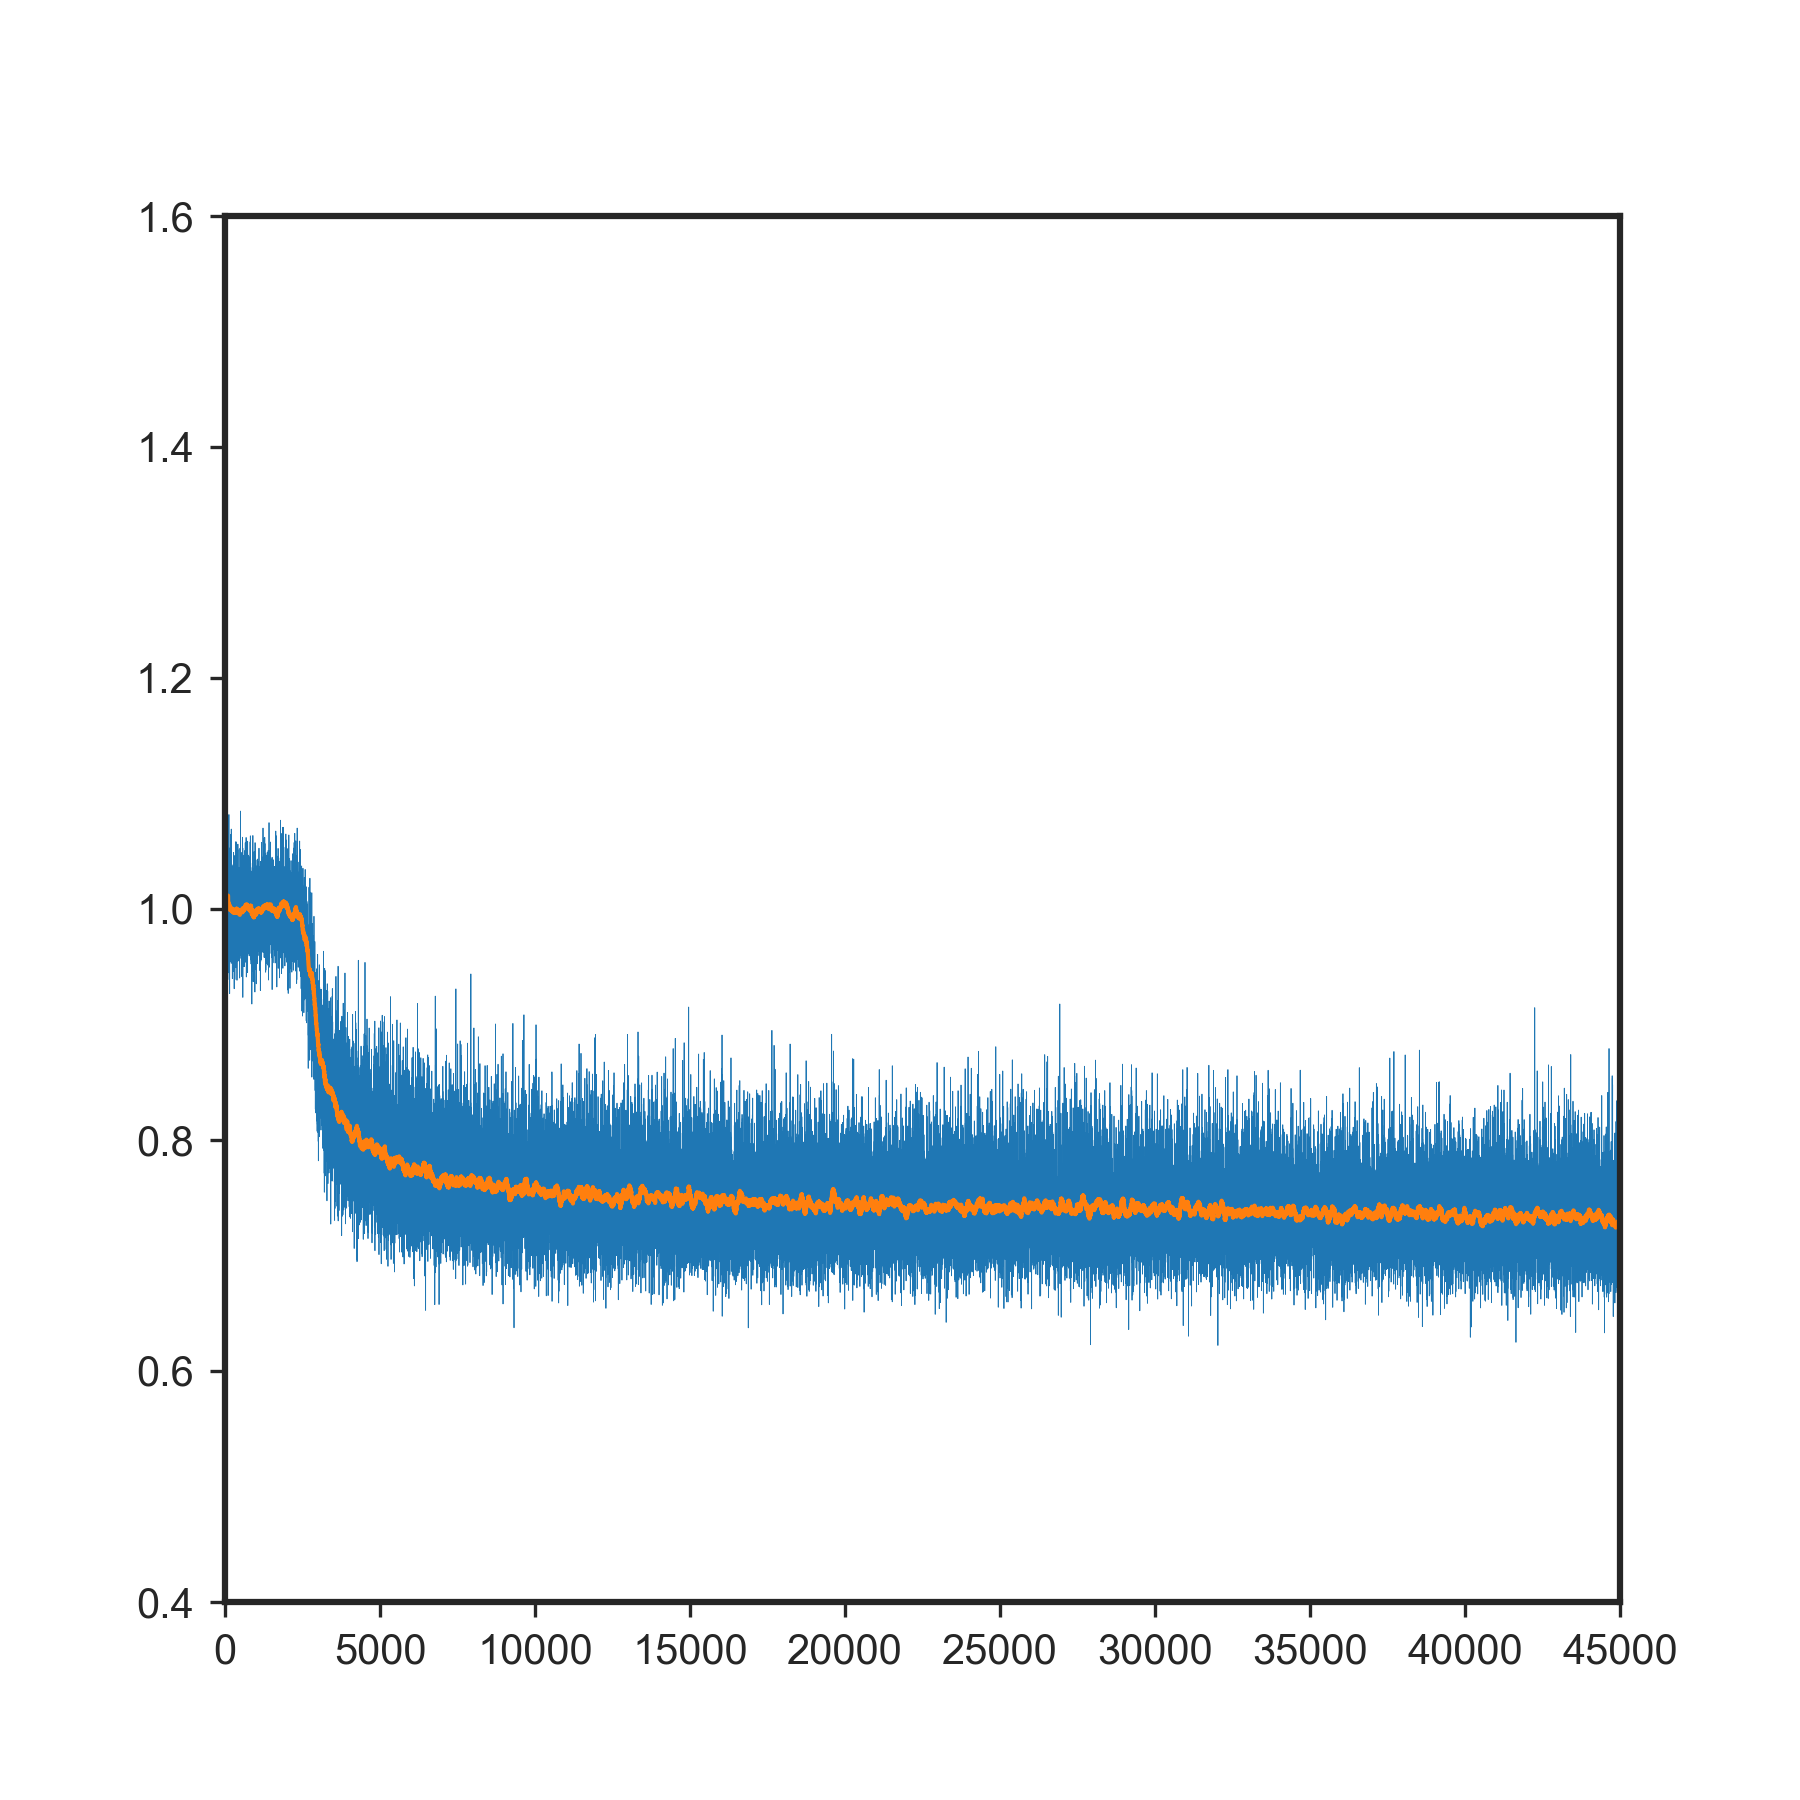
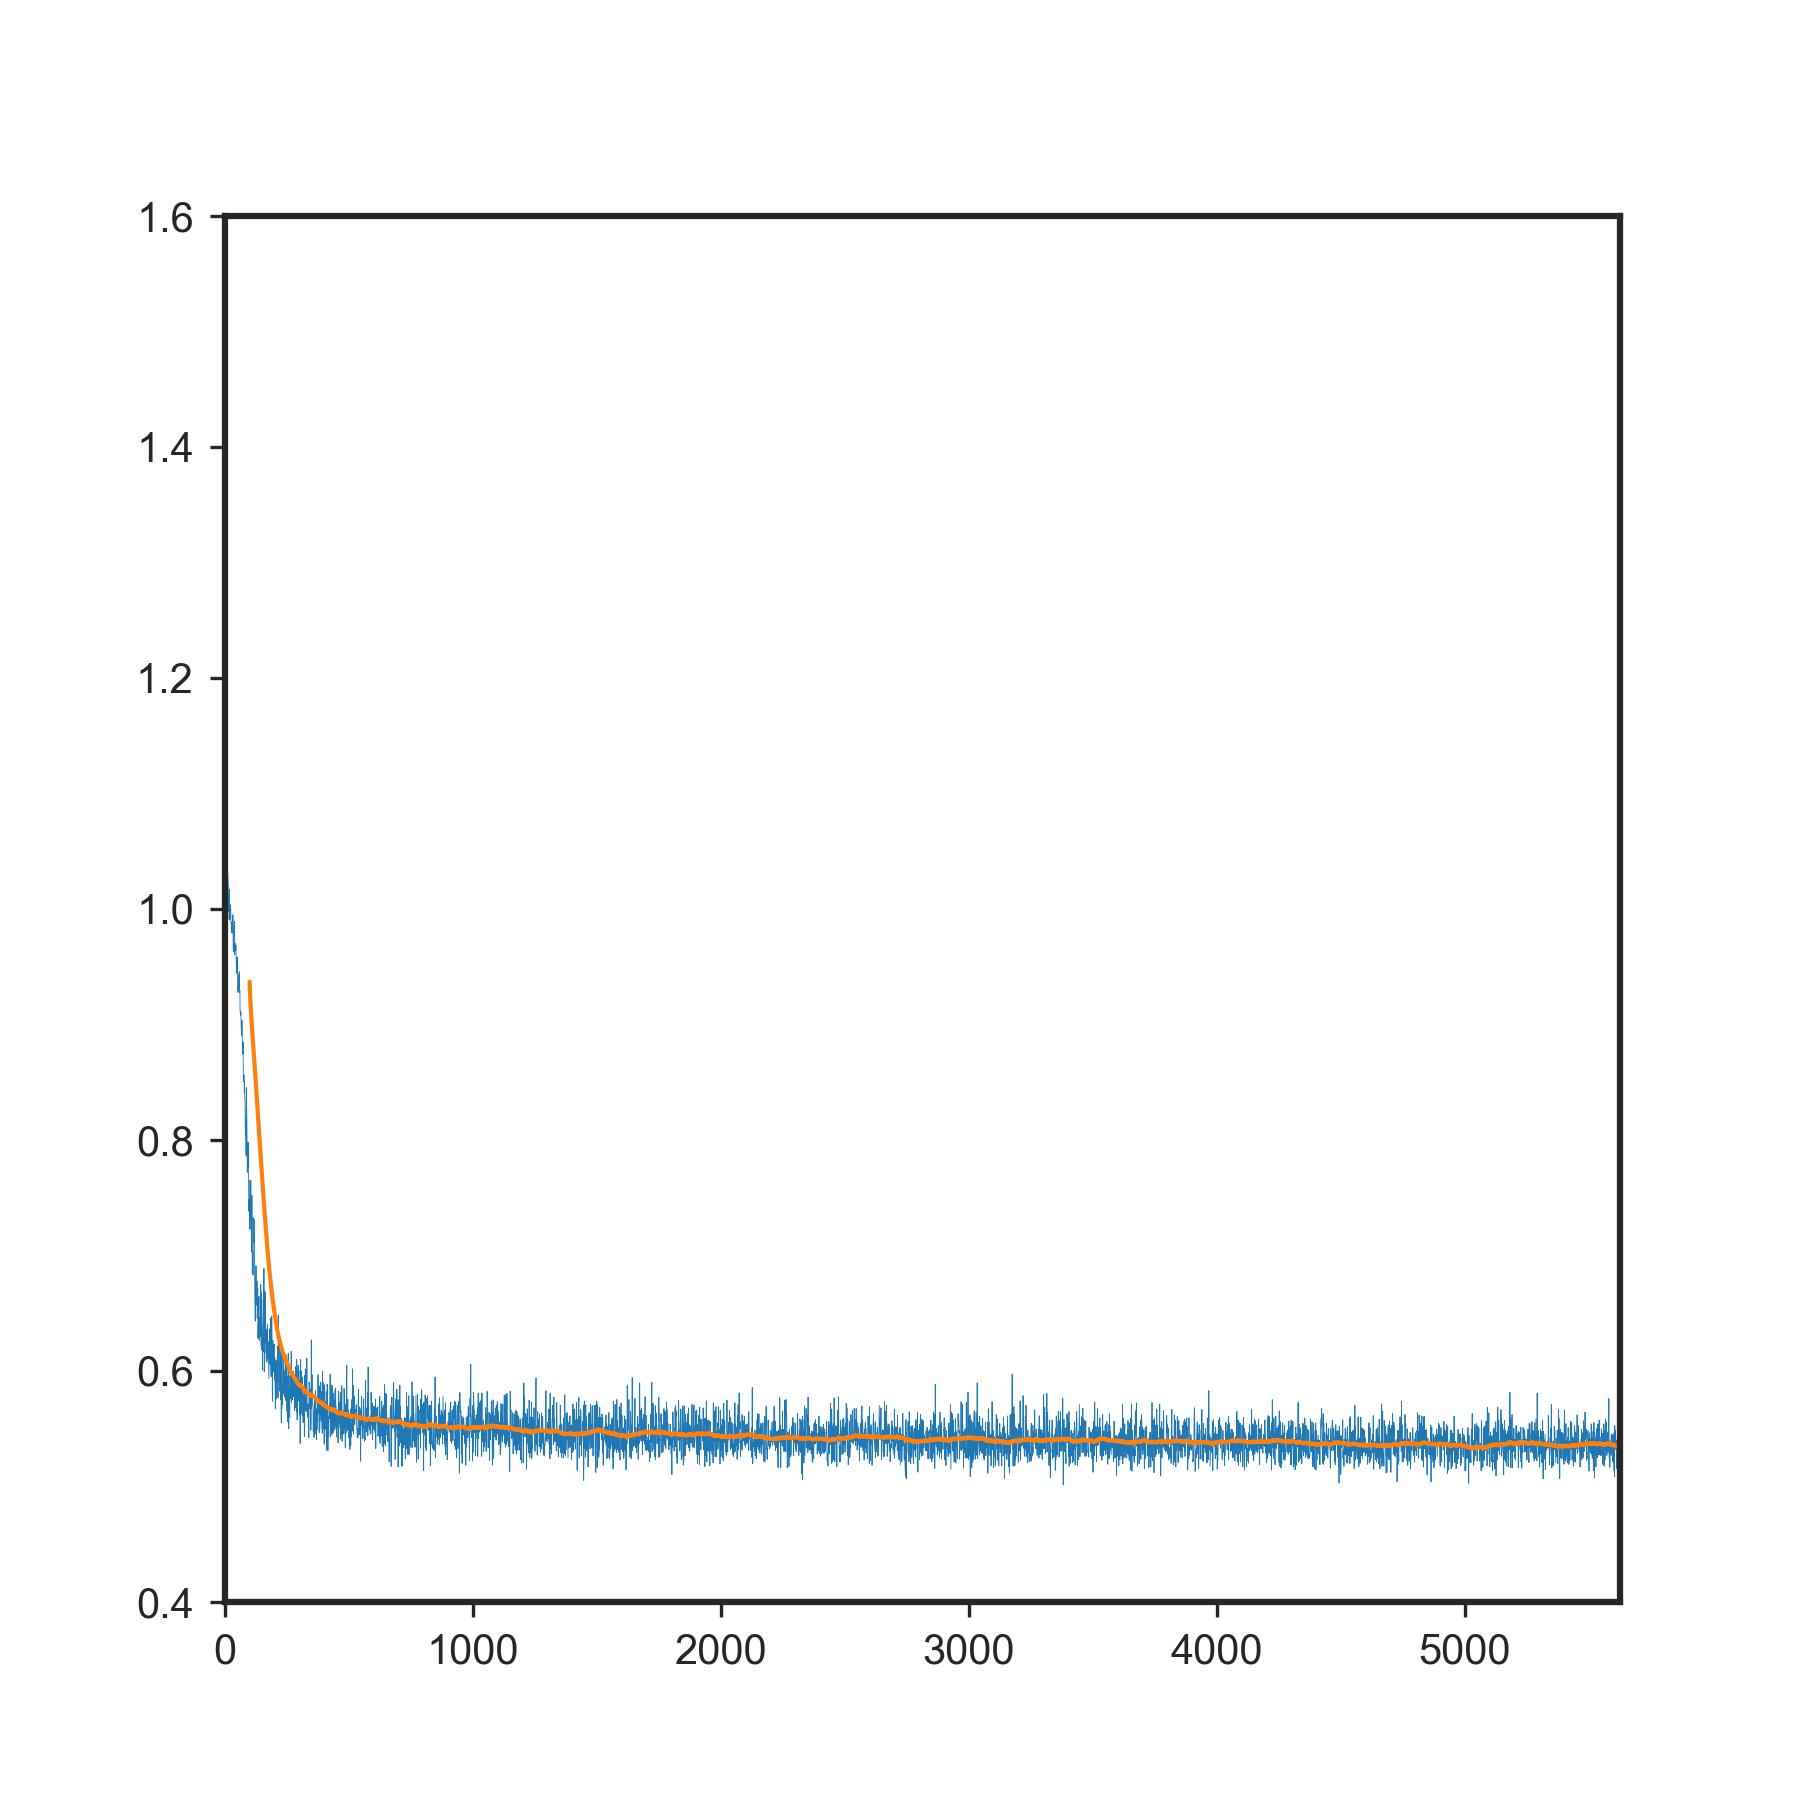
feat: adding ddim

diff --git a/ddpm_from_scratch/ddim.py b/ddpm_from_scratch/ddim.py
@@ -6,7 +6,7 @@ from torchtyping import TensorType
 from ddpm_from_scratch.utils import B, T, Timestep, expand_to_dims
 
 
-class DDPM:
+class DDIM:
     def __init__(
         self,
         betas: TensorType["T", "float"],
@@ -18,28 +18,28 @@ class DDPM:
         # Coefficients used by the forward process #
         ############################################
 
-        self.betas = betas
-        self.alphas = 1 - betas
-        self.alpha_cumprods = torch.cumprod(self.alphas, dim=0)
-        self.alpha_cumprods_prevs = torch.concatenate([torch.tensor([1.0]), self.alpha_cumprods[:-1]])
-        self.sqrt_alpha_cumprods = torch.sqrt(self.alpha_cumprods)
-        self.sqrt_one_minus_alpha = torch.sqrt(1 - self.alpha_cumprods)
+        # Use the notation of DDIM, where α is the same as α_hat in DDPM
+        alphas = 1 - betas
+        alpha_cumprods = torch.cumprod(alphas, dim=0)
+        # α_t
+        self.alphas = alpha_cumprods
+        # sqrt(α_t)
+        self.sqrt_alphas = torch.sqrt(self.alphas)
+        # sqrt(1 - α_t)
+        self.sqrt_one_minus_alpha = torch.sqrt(1 - self.alphas)
 
         #########################################################
         # Coefficients used by the backward process / posterior #
         #########################################################
 
-        # 1 / sqrt(α_hat_t), used to estimate x_hat_0
-        self.sqrt_reciprocal_alpha_cumprods = 1 / torch.sqrt(self.alpha_cumprods)
-        # sqrt(1 / α_hat_t - 1), used to estimate x_hat_0
-        self.sqrt_reciprocal_alpha_cumprods_minus_one = torch.sqrt(1 / self.alpha_cumprods - 1)
-        # "beta_hat_t", β_t * (1 - α_hat_t-1) /  (1 - α_hat_t), variance of q(x_t-1 | x_t, x_0)
-        self.posterior_variance = self.betas * (1 - self.alpha_cumprods_prevs) / (1 - self.alpha_cumprods)
-        # "alpha_hat_t", mean of the backward process, as linear combination of x_t and x_0.
-        self.posterior_mean_x_0_coeff = self.betas * torch.sqrt(self.alpha_cumprods_prevs) / (1 - self.alpha_cumprods)
-        self.posterior_mean_x_t_coeff = (
-            (1 - self.alpha_cumprods_prevs) * torch.sqrt(self.alphas) / (1 - self.alpha_cumprods)
-        )
+        # α_t-1
+        self.alphas_prev = torch.concatenate([torch.tensor([1.0]), self.alphas[:-1]])
+        # sqrt(α_t-1 / α_t), used as x_t coefficient to predict x_0
+        self.posterior_mean_x_0_x_t_coeff = torch.sqrt(self.alphas_prev / self.alphas)
+        # sqrt(α_t-1 / α_t) * sqrt(1 - α_t), used as ε_t coefficient to predict x_0
+        self.posterior_mean_x_0_epsilon_coeff = self.posterior_mean_x_0_x_t_coeff * torch.sqrt(1 - self.alphas)
+        # sqrt(1 - α_t-1), direction pointing to x_t
+        self.posterior_mean_x_t_coeff = torch.sqrt(1 - self.alphas_prev)
 
         ################################
         # Function learnt by the model #
@@ -53,20 +53,20 @@ class DDPM:
         """
         Compute `q(x_i | x_0)`, as a sample of a Gaussian process with equation
         ```
-        sqrt_alpha_cumprods[t] * x_start + sqrt_one_minus_alpha[t] * noise
+        sqrt_alpha[t] * x_0 + sqrt_one_minus_alpha[t] * noise
         ```
 
         :param t: current timestep, as integer. It must be `[0, self.num_timesteps]`
-        :param x_start: value of `x_0`, the value on which the forward process q is conditioned
+        :param x_0: value of `x_0`, the value on which the forward process q is conditioned
         :param noise: noise added to the forward process. If None, sample from a standard Gaussian
         :return: the sampled value of `q(x_i | x_0)`, and the added noise
         """
         if noise is None:
             noise = torch.randn(*x_0.shape)
         # Since `t` can be also be an array, we have to replicate it so that it can be broadcasted on `x_0`.
-        sqrt_alpha_cumprod = expand_to_dims(self.sqrt_alpha_cumprods[t], x_0)
+        sqrt_alpha = expand_to_dims(self.sqrt_alphas[t], x_0)
         sqrt_one_minus_alpha = expand_to_dims(self.sqrt_one_minus_alpha[t], x_0)
-        return sqrt_alpha_cumprod * x_0 + sqrt_one_minus_alpha * noise, noise
+        return sqrt_alpha * x_0 + sqrt_one_minus_alpha * noise, noise
 
     def predict_x_0_and_noise(
         self, t: Timestep, x_t: TensorType["float"]
@@ -87,31 +87,17 @@ class DDPM:
             _t = _t.unsqueeze(0)
         # Predict noise with our model
         noise = self.denoise_function(_t, x_t)
-        # Since `t` can be also be an array, we have to replicate it so that it can be broadcasted on `x_t`.
-        coeff_x_t = expand_to_dims(self.sqrt_reciprocal_alpha_cumprods[_t], x_t)
-        coeff_noise = expand_to_dims(self.sqrt_reciprocal_alpha_cumprods_minus_one[_t], x_t)
-        x_hat_0 = coeff_x_t * x_t - coeff_noise * noise / coeff_x_t
+        # Since `t` can be also be an array, we have to replicate it so that it can be broadcasted on `x_start`.
+        coeff_x_t = expand_to_dims(self.posterior_mean_x_0_x_t_coeff[_t], x_t)
+        coeff_noise = expand_to_dims(self.posterior_mean_x_0_epsilon_coeff[_t], x_t)
+        x_hat_0 = coeff_x_t * x_t - coeff_noise * noise
         return x_hat_0, noise
-
-    def _posterior_mean_variance(
-        self, t: Timestep, x_0: TensorType["float"], x_t: TensorType["float"]
-    ) -> tuple[float, float]:
-        """
-        Obtain the mean and variance of q(x_t-1 | x_t, x_0)
-        """
-        # Since `t` can be also be an array, we have to replicate it so that it can be broadcasted on `x_0`.
-        posterior_mean_x_0_coeff = expand_to_dims(self.posterior_mean_x_0_coeff[t], x_0)
-        posterior_mean_x_t_coeff = expand_to_dims(self.posterior_mean_x_t_coeff[t], x_0)
-        posterior_mean = posterior_mean_x_0_coeff * x_0 + posterior_mean_x_t_coeff * x_t
-        posterior_variance = self.posterior_variance[t]
-        return posterior_mean, posterior_variance
 
     def backward_sample(
         self,
         t: Timestep,
         x_t: TensorType["float"],
-        clip_predicted_x_0: bool = True,
-        add_noise: bool = True,
+        add_noise: bool = False,
     ) -> tuple[TensorType["float"], TensorType["float"]]:
         """
         Obtain a sample of the backward process `q(x_t-1 | x_t, x_0)`,
@@ -121,21 +107,13 @@ class DDPM:
 
         :param t: timestep of `x_t`
         :param x_start: value of `x_t`
-        :param clip_predicted_x_0: if True, clip the predicted value of `x_0` in `[-1, 1]`
-            This is meaningful only for denoising the spiral! We mights other values for images
         :param add_noise: if True, add noise, scaled by the posterior variance, to the predicted sample of `x_t-1`.
             If False, the backward sample is deterministic. It should be False for `t = 0`, True otherwise (in DDPM)
         :return: the sample of `x_t-1`, and the predicted `x_0`
         """
         # Predict x_0 using the model
-        x_hat_0, _ = self.predict_x_0_and_noise(t, x_t)
-        if clip_predicted_x_0:
-            x_hat_0 = torch.clip(x_hat_0, -1, 1)
-        # Obtain the posterior mean and variance, and obtain a sample of q(x_t-1 | x_t, x_0)
-        posterior_mean, posterior_variance = self._posterior_mean_variance(t, x_start=x_hat_0, x_t=x_t)
-        x_t_minus_one = posterior_mean
-        # Add noise to the sample, instead of taking a deterministic step
-        if add_noise:
-            noise = torch.randn(*x_t.shape)
-            x_t_minus_one += torch.sqrt(posterior_variance) * noise
+        x_hat_0, pred_noise = self.predict_x_0_and_noise(t=t, x_t=x_t)
+        # Obtain the posterior mean, and obtain a sample of q(x_t-1 | x_t, x_0)
+        noise_coeff = expand_to_dims(self.posterior_mean_x_t_coeff[t], x_t)
+        x_t_minus_one = x_hat_0 + noise_coeff * pred_noise
         return x_t_minus_one, x_hat_0

diff --git a/notebooks/1_4_plot_coefficients.py b/notebooks/1_4_plot_coefficients.py
@@ -107,7 +107,7 @@ if __name__ == "__main__":
     num_timesteps = 1000
     betas = linear_beta_schedule(num_timesteps)
     model = SpiralDenoisingModel()
-    ddpm = DDPM(num_timesteps, betas, model)
+    ddpm = DDPM(betas, model)
 
     # Plot the beta schedule, alphas, and the coefficients of the forward process q(x_t | x_0),
     # which defines x_t ~ N(sqrt(cumprod_alpha_t) * x_0, (1 - cumprod_alpha_t) * I).
@@ -143,7 +143,7 @@ if __name__ == "__main__":
     num_timesteps = 100
     betas = linear_beta_schedule(num_timesteps)
     model = SpiralDenoisingModel()
-    ddpm = DDPM(num_timesteps, betas, model)
+    ddpm = DDPM(betas, model)
 
     # Plot again the beta schedule, alphas, and the coefficients of the forward process q(x_t | x_0).
     plot_forward_coefficients(
@@ -173,7 +173,7 @@ if __name__ == "__main__":
     num_timesteps = 1000
     betas = scaled_linear_beta_schedule(num_timesteps)
     model = SpiralDenoisingModel()
-    ddpm = DDPM(num_timesteps, betas, model)
+    ddpm = DDPM(betas, model)
 
     # Plot again the beta schedule, alphas, and the coefficients of the forward process q(x_t | x_0).
     plot_forward_coefficients(
@@ -206,7 +206,7 @@ if __name__ == "__main__":
         for i, b in tqdm(enumerate(max_beta_range)):
             betas = scaled_linear_beta_schedule(num_timesteps, β_end=b)
             model = SpiralDenoisingModel()
-            ddpm = DDPM(num_timesteps, betas, model)
+            ddpm = DDPM(betas, model)
             plot_name = f"1_4_scaled_linear_betas_range_{i}.png"
             plot_forward_coefficients(
                 betas,
@@ -236,7 +236,7 @@ if __name__ == "__main__":
         for i, b in tqdm(enumerate(max_beta_range)):
             betas = linear_beta_schedule(num_timesteps, β_end=b)
             model = SpiralDenoisingModel()
-            ddpm = DDPM(num_timesteps, betas, model)
+            ddpm = DDPM(betas, model)
             plot_name = f"1_4_posterior_coefficients_scaled_linear_betas_range_{i}.png"
             plot_posterior_coefficients(
                 betas,

diff --git a/notebooks/2_2_mnist.py b/notebooks/2_2_mnist.py
@@ -1,27 +1,18 @@
-import os
 from pathlib import Path
 
-import imageio.v2 as imageio
 import matplotlib.pyplot as plt
 import numpy as np
 import pandas as pd
 import torch
-import torchvision.transforms as T
-from imageio.core.format import Format
 from segretini_matplottini.utils.plot_utils import reset_plot_style, save_plot
-from torch.utils.data import DataLoader
-from torchtyping import TensorType
-from torchvision.datasets.mnist import MNIST
-from torchvision.utils import make_grid
-from tqdm import tqdm
 
 from ddpm_from_scratch.ddpm import DDPM
 from ddpm_from_scratch.engines.mnist import (MnistInferenceGifCallback,
                                              get_one_element_per_digit,
                                              inference, load_mnist, train)
 from ddpm_from_scratch.models.unet_simple_with_timestep import \
-    UNetSimpleWithTimestep
-from ddpm_from_scratch.utils import linear_beta_schedule
+    UNetSimpleWithTimestep, UNetSimple
+from ddpm_from_scratch.utils import linear_beta_schedule, scaled_linear_beta_schedule
 
 PLOT_DIR = Path(__file__).parent.parent / "plots"
 DATA_DIR = Path(__file__).parent.parent / "data"
@@ -44,13 +35,13 @@ if __name__ == "__main__":
     # Create the diffusion process.
     num_timesteps = 1000
     betas = linear_beta_schedule(num_timesteps, 8e-6, 9e-5)
-    ddpm = DDPM(num_timesteps, betas, model)
+    ddpm = DDPM(betas, model)
 
     # Load the MNIST dataset.
-    mnist, dataloader = load_mnist(DATA_DIR, batch_size=4)
+    mnist, dataloader = load_mnist(DATA_DIR, batch_size=8)
 
     #%% Train the model, in the same way as before.
-    losses = train(dataloader=dataloader, sampler=ddpm, optimizer=optimizer, epochs=3)
+    losses = train(dataloader=dataloader, sampler=ddpm, optimizer=optimizer, epochs=1)
 
     #%% Plot the loss function
     plt.figure(figsize=(6, 6))

diff --git a/ddpm_from_scratch/models/unet_simple_with_timestep.py b/ddpm_from_scratch/models/unet_simple_with_timestep.py
@@ -9,6 +9,20 @@ from ddpm_from_scratch.models.unet_simple import UNetSimple
 from ddpm_from_scratch.utils import B, C, H, W, expand_to_dims
 
 
+class TimestepEmbedding(nn.Module):
+    def __init__(self, output_channels: int, hidden_channels: int = 16):
+        super().__init__()
+        self.timestep_embedding =  nn.Sequential(
+            SinusoidalEncoding(hidden_channels, maximum_length=1024),
+            nn.Linear(hidden_channels, hidden_channels),
+            nn.SiLU(),
+            nn.Linear(hidden_channels, output_channels),
+        )
+
+    def forward(self, t: TensorType["B", "int"]) -> TensorType["B", "C"]:
+        return self.timestep_embedding(t)
+
+
 class UNetSimpleWithTimestep(UNetSimple):
     def __init__(
         self,
@@ -37,13 +51,13 @@ class UNetSimpleWithTimestep(UNetSimple):
         # with the same size as the number of output channels of that layer
         self.downsample_timesteps = nn.ModuleDict(
             {
-                f"timestep_down_{i}": SinusoidalEncoding(self._channels[i + 1], maximum_length=1024)
+                f"timestep_down_{i}": TimestepEmbedding(self._channels[i + 1])
                 for i in range(len(self._channels) - 1)
             }
         )
         self.upsample_timesteps = nn.ModuleDict(
             {
-                f"timestep_up_{i}": SinusoidalEncoding(self._channels[i], maximum_length=1024)
+                f"timestep_up_{i}": TimestepEmbedding(self._channels[i])
                 for i in range(len(self._channels) - 1)[::-1]
             }
         )

diff --git a/notebooks/1_3_train_denoiser.py b/notebooks/1_3_train_denoiser.py
@@ -42,7 +42,7 @@ if __name__ == "__main__":
     # Check out `ddpm_from_scratch/ddpm.py` for the Pytorch implementation.
     num_timesteps = 1000
     betas = linear_beta_schedule(num_timesteps, 8e-6, 9e-5)
-    ddpm = DDPM(num_timesteps, betas, model)
+    ddpm = DDPM(betas, model)
 
     # Create a spiral, and add noise using the new distribution.
     X = make_spiral(1000, normalize=True)
@@ -84,7 +84,7 @@ if __name__ == "__main__":
     X = make_spiral(1000, normalize=True)  # Create the spiral
     # Create a DDPM that does inference in fewer steps, but still uses the trained model
     inference_steps = 200
-    ddpm_inference = DDPM(inference_steps, linear_beta_schedule(inference_steps), model)
+    ddpm_inference = DDPM(linear_beta_schedule(inference_steps), model)
     X_noisy, _ = ddpm_inference.forward_sample(inference_steps - 1, X)  # Add noise
     with imageio.get_writer(PLOT_DIR / "1_3_inference.gif", mode="I") as writer:  # Create a GIF!
         steps = np.linspace(1, 0, inference_steps)

diff --git a/notebooks/2_1_mnist.py b/notebooks/2_1_mnist.py
@@ -52,7 +52,7 @@ if __name__ == "__main__":
     # Create the diffusion process.
     num_timesteps = 1000
     betas = linear_beta_schedule(num_timesteps, 8e-6, 9e-5)
-    ddpm = DDPM(num_timesteps, betas, model)
+    ddpm = DDPM(betas, model)
 
     # Load the MNIST dataset
     mnist = MNIST(
